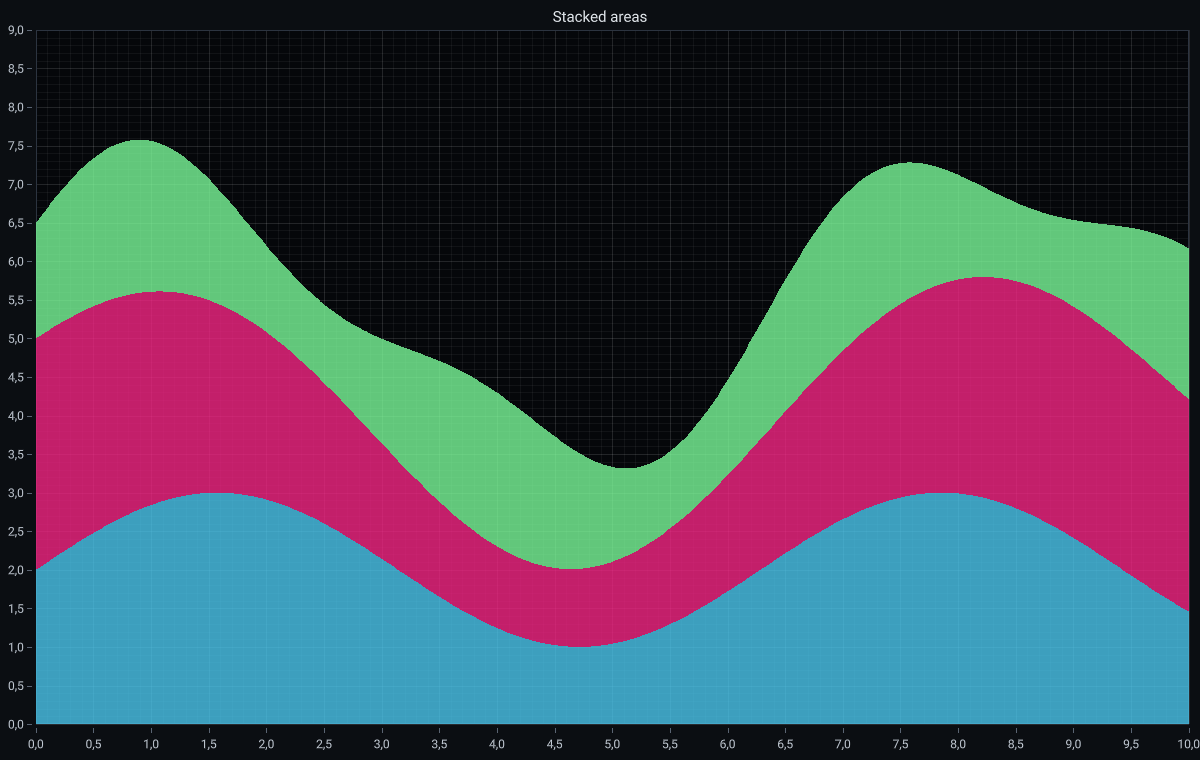
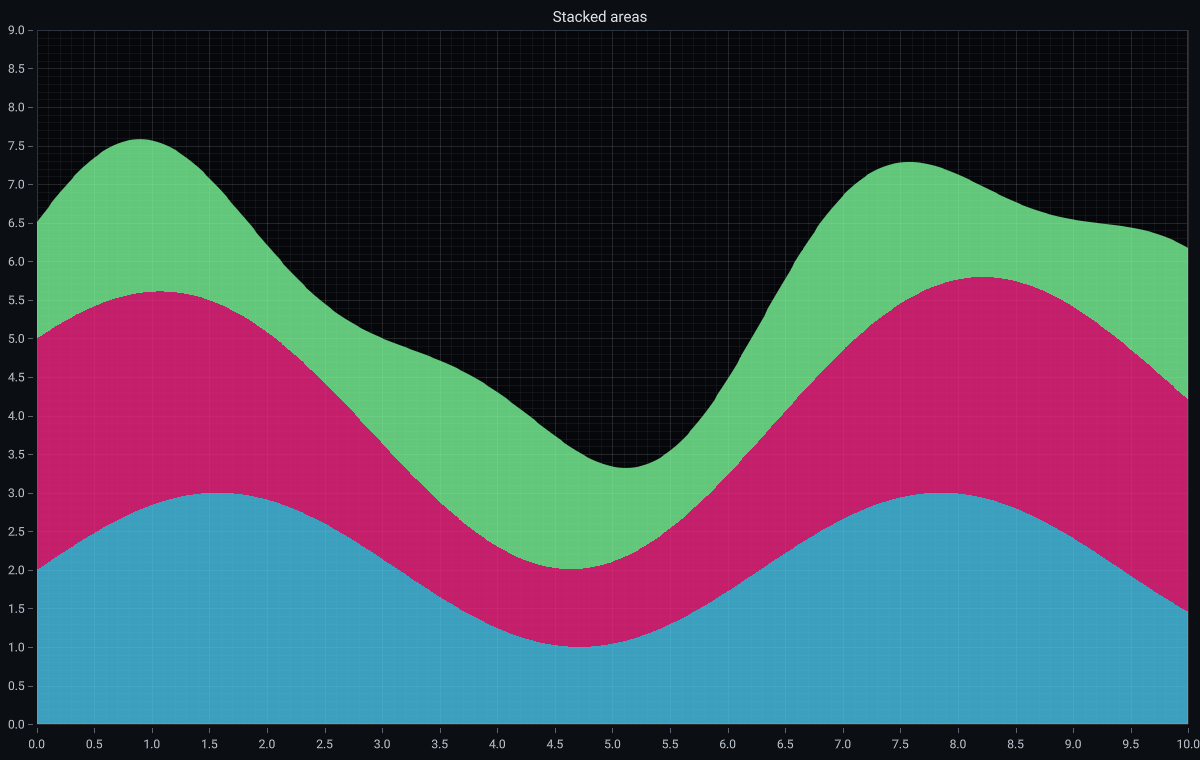
Smooth the edges of filled shapes

Changed region(s): [[0.9867, 0.0605, 1.0, 0.9382], [0.9867, 0.9684, 1.0, 0.9987]]

diff --git a/src/Tachyon.Charts.Core/Series/AreaSeries.cs b/src/Tachyon.Charts.Core/Series/AreaSeries.cs
@@ -19,6 +19,7 @@ public abstract class RibbonSeries(AxisBase xAxis, AxisBase yAxis) : ChartSeries
 
     private readonly List<MeshVertex> _mesh = [];
     private MeshVertex[] _vertices = [];
+    private int _count;
     private long _builtVersion = -1;
     private SeriesFrame _builtFrame;
     private long _appearanceVersion;
@@ -49,15 +50,21 @@ public abstract class RibbonSeries(AxisBase xAxis, AxisBase yAxis) : ChartSeries
 
         _mesh.Clear();
         Build(frame, _mesh);
-        _vertices = _mesh.Count == _vertices.Length ? _vertices : new MeshVertex[_mesh.Count];
+        // The array only grows, so a view that moves does not allocate.
+        if (_vertices.Length < _mesh.Count)
+        {
+            _vertices = new MeshVertex[_mesh.Count * 5 / 4];
+        }
+
         _mesh.CopyTo(_vertices);
+        _count = _mesh.Count;
         _builtVersion = version;
         _builtFrame = frame;
     }
 
     /// <inheritdoc />
     protected internal override void Draw(ICommandList commands, in SeriesFrame frame) =>
-        commands.FillMesh(_vertices, frame.Bounds);
+        commands.FillMesh(_vertices.AsSpan(0, _count), frame.Bounds);
 
     /// <summary>Adds the ribbon between two curves, with gaps where a curve has no value.</summary>
     /// <param name="frame">The place of the series.</param>
@@ -66,7 +73,8 @@ public abstract class RibbonSeries(AxisBase xAxis, AxisBase yAxis) : ChartSeries
     /// <param name="upper">The second curve.</param>
     /// <param name="fill">The fill.</param>
     /// <param name="mesh">Receives the triangles.</param>
-    protected static void AddRibbon(in SeriesFrame frame, ReadOnlySpan<double> x, ReadOnlySpan<double> lower, ReadOnlySpan<double> upper, SeriesFill fill, List<MeshVertex> mesh)
+    /// <param name="smoothsTop">Whether the upper curve borders free space and gets a soft edge. An edge against another ribbon stays hard, or the two edges would show a seam.</param>
+    protected static void AddRibbon(in SeriesFrame frame, ReadOnlySpan<double> x, ReadOnlySpan<double> lower, ReadOnlySpan<double> upper, SeriesFill fill, List<MeshVertex> mesh, bool smoothsTop = false)
     {
         var count = Math.Min(x.Length, Math.Min(lower.Length, upper.Length));
         var stride = Math.Max(count / Math.Max((int)(frame.Bounds.Width * 2), 1), 1);
@@ -93,7 +101,7 @@ public abstract class RibbonSeries(AxisBase xAxis, AxisBase yAxis) : ChartSeries
 
             if (hasPrevious)
             {
-                AddQuad(frame, previous, column, fill, mesh);
+                AddQuad(frame, previous, column, fill, mesh, smoothsTop);
             }
 
             previous = column;
@@ -112,8 +120,16 @@ public abstract class RibbonSeries(AxisBase xAxis, AxisBase yAxis) : ChartSeries
         return Math.Abs(candidate - other) > Math.Abs(current - other) ? candidate : current;
     }
 
-    private static void AddQuad(in SeriesFrame frame, in Column first, in Column second, SeriesFill fill, List<MeshVertex> mesh)
+    private static void AddQuad(in SeriesFrame frame, in Column first, in Column second, SeriesFill fill, List<MeshVertex> mesh, bool smoothsTop)
     {
+        // A soft band of one pixel above the upper curve; the steps between the columns join inside.
+        if (smoothsTop)
+        {
+            var (a, b) = (Vertex(frame, first.Pixel, first.Lower, fill), Vertex(frame, first.Pixel, first.Upper, fill));
+            var (c, d) = (Vertex(frame, second.Pixel, second.Upper, fill), Vertex(frame, second.Pixel, second.Lower, fill));
+            MeshFringe.Add(mesh, b, c, (a.Position + d.Position) / 2);
+        }
+
         // Colors blend linearly across a triangle, a colormap does not: it needs steps along the values.
         if (fill is ValueGradientFill)
         {
@@ -226,7 +242,7 @@ public sealed class AreaSeries : RibbonSeries
         }
 
         Array.Fill(_lower, _baseline);
-        AddRibbon(frame, snapshot.X.Span, _lower, snapshot.Y.Span, _fill, mesh);
+        AddRibbon(frame, snapshot.X.Span, _lower, snapshot.Y.Span, _fill, mesh, smoothsTop: true);
     }
 }
 
@@ -350,7 +366,7 @@ public sealed class StackedAreaSeries : RibbonSeries
         var zero = new double[edges[0].Length];
         for (var layer = 0; layer < edges.Length; layer++)
         {
-            AddRibbon(frame, x, layer == 0 ? zero : edges[layer - 1], edges[layer], _fills[layer], mesh);
+            AddRibbon(frame, x, layer == 0 ? zero : edges[layer - 1], edges[layer], _fills[layer], mesh, smoothsTop: layer == edges.Length - 1);
         }
     }
 

diff --git a/src/Tachyon.Charts.Core/Series/PieSeries.cs b/src/Tachyon.Charts.Core/Series/PieSeries.cs
@@ -51,6 +51,7 @@ public sealed class PieSeries : ChartSeries
 
     private readonly List<MeshVertex> _mesh = [];
     private MeshVertex[] _vertices = [];
+    private int _count;
     private Slices _slices;
     private Rgba8[] _palette = _defaultPalette;
     private IReadOnlyList<Rgba8>? _colors;
@@ -318,13 +319,21 @@ public sealed class PieSeries : ChartSeries
         }
 
         Build(frame);
-        _vertices = [.. _mesh];
+
+        // The array only grows, so a slice under the pointer does not allocate.
+        if (_vertices.Length < _mesh.Count)
+        {
+            _vertices = new MeshVertex[_mesh.Count * 5 / 4];
+        }
+
+        _mesh.CopyTo(_vertices);
+        _count = _mesh.Count;
         _builtVersion = version;
         _builtFrame = frame;
     }
 
     /// <inheritdoc />
-    protected internal override void Draw(ICommandList commands, in SeriesFrame frame) => commands.FillMesh(_vertices, frame.Bounds);
+    protected internal override void Draw(ICommandList commands, in SeriesFrame frame) => commands.FillMesh(_vertices.AsSpan(0, _count), frame.Bounds);
 
     private static Rgba8 Lighten(Rgba8 color) => new(
         (byte)(color.R + ((255 - color.R) / 4)),
@@ -352,8 +361,9 @@ public sealed class PieSeries : ChartSeries
             drawn += sweep > 0 ? 1 : 0;
         }
 
-        // A single slice is a closed circle; otherwise a gap on both sides keeps the slices apart.
-        var gap = drawn > 1 ? _gap * frame.DpiScale / radius : 0;
+        // A single slice is a closed circle; otherwise a gap on both sides keeps the slices apart. The soft band along
+        // each cut reaches into the gap, so the gap grows by the band on both sides.
+        var gap = drawn > 1 ? ((_gap * frame.DpiScale) + (2 * MeshFringe.Width)) / radius : 0;
         for (var i = 0; i < slices.Values.Length; i++)
         {
             var sweep = slices.Sweep[i];
@@ -372,18 +382,21 @@ public sealed class PieSeries : ChartSeries
         }
     }
 
+    // The arcs and the cuts get a soft band of one pixel, so that they show no steps.
     private void AddSlice(Vector2 origin, float radius, float inner, double start, double end, Rgba8 color)
     {
         var steps = Math.Max(1, (int)Math.Ceiling((end - start) / (2 * Math.PI) * StepsPerTurn));
+        var center = new MeshVertex(origin, color);
         for (var step = 0; step < steps; step++)
         {
             var a = Direction(start + ((end - start) * step / steps));
             var b = Direction(start + ((end - start) * (step + 1) / steps));
             var outerA = new MeshVertex(origin + (a * radius), color);
             var outerB = new MeshVertex(origin + (b * radius), color);
+            MeshFringe.Add(_mesh, outerA, outerB, origin);
             if (inner <= 0)
             {
-                _mesh.Add(new MeshVertex(origin, color));
+                _mesh.Add(center);
                 _mesh.Add(outerA);
                 _mesh.Add(outerB);
                 continue;
@@ -392,6 +405,20 @@ public sealed class PieSeries : ChartSeries
             var innerA = new MeshVertex(origin + (a * inner), color);
             var innerB = new MeshVertex(origin + (b * inner), color);
             _mesh.AddRange([innerA, outerA, outerB, innerA, outerB, innerB]);
+            MeshFringe.Add(_mesh, innerA, innerB, outerA.Position);
+        }
+
+        if (end - start >= (2 * Math.PI) - 1e-9)
+        {
+            return;
+        }
+
+        // The straight cuts at both ends, seen from a point inside the slice.
+        var middle = origin + (Direction((start + end) / 2) * ((radius + inner) / 2));
+        foreach (var angle in (ReadOnlySpan<double>)[start, end])
+        {
+            var direction = Direction(angle);
+            MeshFringe.Add(_mesh, new MeshVertex(origin + (direction * inner), color), new MeshVertex(origin + (direction * radius), color), middle);
         }
     }
 

diff --git a/src/Tachyon.Charts.Core/Series/PolygonSeries.cs b/src/Tachyon.Charts.Core/Series/PolygonSeries.cs
@@ -25,6 +25,7 @@ public sealed class PolygonSeries : ChartSeries, IDisposable
     private byte _fillAlpha = 170;
     private Rgba8 _stroke = new(255, 255, 255, 200);
     private double _thickness = 1;
+    private readonly List<Vector2> _ring = [];
     private long _appearance;
     private long _built = -1;
     private SeriesFrame _builtFrame;
@@ -177,6 +178,16 @@ public sealed class PolygonSeries : ChartSeries, IDisposable
             {
                 _mesh.Add(new MeshVertex(new Vector2((float)frame.X.ToPixel(xs[corner]), (float)frame.Y.ToPixel(ys[corner])), color));
             }
+
+            // An outline draws a smooth line over the edge already.
+            if (_stroke.A == 0 || _thickness <= 0)
+            {
+                AddFringe(frame, polygon.Outer, isHole: false, color);
+                foreach (var hole in polygon.Holes)
+                {
+                    AddFringe(frame, hole, isHole: true, color);
+                }
+            }
         }
 
         if (_stroke.A > 0)
@@ -212,6 +223,32 @@ public sealed class PolygonSeries : ChartSeries, IDisposable
     }
 
     private void Touch() => Interlocked.Increment(ref _appearance);
+
+    // The filled side lies left of each edge when the ring turns positively, right otherwise; for a hole the other way.
+    private void AddFringe(in SeriesFrame frame, PolygonRing ring, bool isHole, Rgba8 color)
+    {
+        _ring.Clear();
+        for (var i = 0; i < ring.Count; i++)
+        {
+            _ring.Add(new Vector2((float)frame.X.ToPixel(ring.X[i]), (float)frame.Y.ToPixel(ring.Y[i])));
+        }
+
+        var area = 0.0;
+        for (int i = 0, j = _ring.Count - 1; i < _ring.Count; j = i++)
+        {
+            area += ((double)_ring[j].X * _ring[i].Y) - ((double)_ring[i].X * _ring[j].Y);
+        }
+
+        var isLeft = (area > 0) != isHole;
+        for (int i = 0, j = _ring.Count - 1; i < _ring.Count; j = i++)
+        {
+            var (a, b) = (_ring[j], _ring[i]);
+            var along = b - a;
+            var left = new Vector2(-along.Y, along.X);
+            var inside = ((a + b) / 2) + (isLeft ? left : -left);
+            MeshFringe.Add(_mesh, new MeshVertex(a, color), new MeshVertex(b, color), inside);
+        }
+    }
 
     private void AddRing(in SeriesFrame frame, PolygonRing ring)
     {

diff --git a/src/Tachyon.Charts.Rendering/MeshFringe.cs b/src/Tachyon.Charts.Rendering/MeshFringe.cs
@@ -1,0 +1,47 @@
+using System.Numerics;
+
+namespace Tachyon.Charts.Rendering;
+
+/// <summary>
+/// Smooth edges for filled triangles without multisampling: a band of one pixel along the outside of a slanted edge,
+/// whose opacity falls from the color of the edge to nothing. It works the same in every renderer and in exported
+/// pictures. Edges along the pixel grid are sharp already and get no band, so bars and columns stay crisp.
+/// </summary>
+internal static class MeshFringe
+{
+    /// <summary>The width of the band in pixels.</summary>
+    public const float Width = 1f;
+
+    private const float Straight = 0.01f;
+
+    /// <summary>Adds the band along the edge from <paramref name="a"/> to <paramref name="b"/>.</summary>
+    /// <param name="mesh">Receives two triangles.</param>
+    /// <param name="a">The start of the edge and its color.</param>
+    /// <param name="b">The end of the edge and its color.</param>
+    /// <param name="inside">A point on the filled side of the edge.</param>
+    public static void Add(List<MeshVertex> mesh, in MeshVertex a, in MeshVertex b, Vector2 inside)
+    {
+        var along = b.Position - a.Position;
+        if (MathF.Abs(along.X) < Straight || MathF.Abs(along.Y) < Straight)
+        {
+            return;
+        }
+
+        var normal = Vector2.Normalize(new Vector2(along.Y, -along.X));
+        var side = Vector2.Dot(normal, inside - a.Position);
+        if (!float.IsFinite(side) || MathF.Abs(side) < 1e-4f)
+        {
+            return;
+        }
+
+        var outward = (side > 0 ? -normal : normal) * Width;
+        var outerA = new MeshVertex(a.Position + outward, a.Color with { A = 0 });
+        var outerB = new MeshVertex(b.Position + outward, b.Color with { A = 0 });
+        mesh.Add(a);
+        mesh.Add(b);
+        mesh.Add(outerB);
+        mesh.Add(a);
+        mesh.Add(outerB);
+        mesh.Add(outerA);
+    }
+}

diff --git a/src/Tachyon.Charts.Core/Series/GanttSeries.cs b/src/Tachyon.Charts.Core/Series/GanttSeries.cs
@@ -331,6 +331,11 @@ public sealed class GanttSeries : ChartSeries
         var bottom = new MeshVertex(new Vector2(x, y + radius), color);
         var left = new MeshVertex(new Vector2(x - radius, y), color);
         _mesh.AddRange([top, right, bottom, top, bottom, left]);
+        var middle = new Vector2(x, y);
+        MeshFringe.Add(_mesh, top, right, middle);
+        MeshFringe.Add(_mesh, right, bottom, middle);
+        MeshFringe.Add(_mesh, bottom, left, middle);
+        MeshFringe.Add(_mesh, left, top, middle);
     }
 }
 

diff --git a/docs/guide/renderer.md b/docs/guide/renderer.md
@@ -17,3 +17,10 @@ A series of your own adds lines by overriding `WriteDiagnostics(DiagnosticsText 
 In the showroom, F12 switches the overlay on every page, also when no chart has the focus, and it stays on when you change the page. Still images in the gallery show how long they took to render. `--diagnostics` starts the apps with the overlay on.
 
 The measured values are in the README.
+
+## Smooth edges
+
+Every chart type draws smooth edges, on the GPU, in the CPU fallback and in exported pictures alike:
+
+- **2D:** lines, markers and text smooth their own edges. Filled shapes with slanted edges (pie and donut, areas, polygons without an outline, milestones) get a soft band of one pixel along the outside, which costs a few triangles instead of multisampling the whole picture. Edges along the pixel grid, such as bars and candles, stay crisp, and edges where two filled shapes meet, such as the layers of stacked areas, get no band, so no seam shows.
+- **3D:** the picture is multisampled four times; points and bubbles smooth their outline on top.
